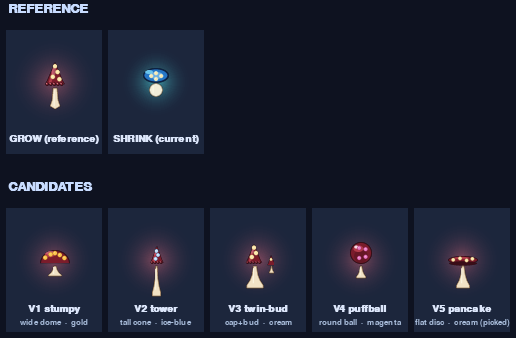
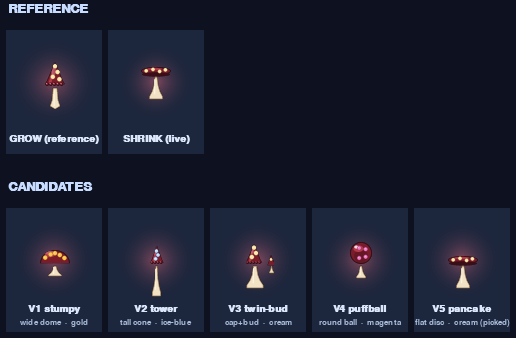
shrink: wire V5 pancake design into the live SHRINK pickup sprite
Replaces the standalone blue-toadstool design with the V5 pancake the
user picked from the second candidate set — same red velvet palette /
cream spots / magenta halo as GROW so the two read as a fungal family;
the silhouette is the only differentiator at glance.

game/entities.py changes:
  _draw_shrink_mushroom         halo (80,220,230) → _GROW_HALO_RGB
                                (180,90,110), radius 36 → 40
  _SHRINK_CAP_{W,H}             26×14 squat ellipse → 30×8 flat disc
  _SHRINK_STEM_{W,H}            14×14 → 14×22 (taller, room for flare)
  _SHRINK_VELVET_BODY           (40,120,200) blue → MUSH_CAP red
  _SHRINK_VELVET_HI             (110,200,240) blue → MUSH_CAP2 red
  _SHRINK_VELVET_OUTLINE        (15,35,70) navy → (60,15,25) wine
  _SHRINK_VELVET_SHEEN          dropped (V5 doesn't use the sheen blob)
  _SHRINK_STEM_BODY             dropped (now uses shared MUSH_STEM)
  _SHRINK_SPOT_HALO             (180,220,230) cyan → (195,165,110) cream
  _SHRINK_STEM_HI               (255,252,235) cooler → (255,250,230)
  _SHRINK_ORNAMENT_SLOTS        4 spots on the squat-ellipse layout →
                                4-spot GROW-style asymmetric scatter
                                across the wide flat disc
  _get_shrink_body_sprite       rewritten: flared flat-bottomed
                                pedestal stem polygon + flat disc cap
                                (outline + body + crescent highlight +
[…]

Changed region(s): [[0.2171, 0.3846, 0.4031, 0.4438], [0.2481, 0.1775, 0.3411, 0.2959]]

diff --git a/game/entities.py b/game/entities.py
@@ -1634,14 +1634,14 @@ class PowerUp:
     # ── SECRET LATE-GAME POWER-UP ICONS ─────────────────────────────────────
 
     def _draw_shrink_mushroom(self, surf):
-        """Sibling-to-GROW mushroom: short squat wide cap, deep blue velvet,
-        cream spots in the same canonical layout, cyan pulsing halo. Reads
-        as the same fungal family as GROW but unmistakably different."""
+        """Sibling-to-GROW mushroom in red velvet: wide flat parasol disc on
+        a flared flat-bottomed stem, cream-butter spots, magenta pulsing
+        halo. Reads as the same fungal family as GROW; the silhouette is
+        the only thing that distinguishes the two pickups at glance."""
         cx = int(self.x)
         cy = int(self.y + math.sin(self.pulse * 1.1) * 2)
-        # Cyan halo first (mirrors GROW's pulsing magenta halo style).
         _draw_grow_halo(surf, cx, cy, self.pulse,
-                        color_rgb=(80, 220, 230), radius=36, peak_y_off=0)
+                        color_rgb=_GROW_HALO_RGB, radius=40, peak_y_off=0)
         sprite = _get_shrink_body_sprite()
         surf.blit(sprite, sprite.get_rect(center=(cx, cy)))
 
@@ -1818,30 +1818,31 @@ class PowerUp:
         surf.blit(rotated, rotated.get_rect(center=(cx, cy)))
 
 
-# ── SHRINK power-up sprite (squat blue velvet toadstool — sibling to GROW) ───
-# Same canonical 4-spot ornament layout + velvet-sheen pattern as GROW so they
-# read as one fungal family, but flipped along three axes:
-#   - Shape: short squat wide cap (vs GROW's tall narrow Liberty-Cap cone)
-#   - Palette: cool deep-blue/teal velvet (vs GROW's warm red velvet)
-#   - Halo (drawn separately in _draw_shrink_mushroom): cyan vs magenta
-# Built at supersample then smoothscaled and cached, same as GROW.
+# ── SHRINK power-up sprite (red velvet pancake parasol — sibling to GROW) ───
+# Same red velvet palette + cream-butter spots + magenta halo as GROW so
+# the two pickups read as one fungal family. The silhouette is the only
+# differentiator at glance:
+#   - Cap: wide flat parasol disc (vs GROW's tall narrow Liberty-Cap cone)
+#   - Stem: flared flat-bottomed pedestal (vs GROW's bulbed pointed stem)
+# Built at supersample then smoothscaled and cached, same pipeline as GROW.
 _SHRINK_SS = 5
-_SHRINK_CAP_W, _SHRINK_CAP_H = 26, 14            # wider + shorter than GROW
-_SHRINK_STEM_W, _SHRINK_STEM_H = 14, 14
-_SHRINK_VELVET_OUTLINE = ( 15,  35,  70)
-_SHRINK_VELVET_BODY    = ( 40, 120, 200)
-_SHRINK_VELVET_HI      = (110, 200, 240)
-_SHRINK_VELVET_SHEEN   = (180, 230, 250, 130)
-_SHRINK_SPOT_HALO      = (180, 220, 230)
-_SHRINK_STEM_OUTLINE   = (140, 130, 110)
-_SHRINK_STEM_BODY      = (245, 240, 220)
-_SHRINK_STEM_HI        = (255, 252, 235)
+_SHRINK_CAP_W,  _SHRINK_CAP_H  = 30, 8
+_SHRINK_STEM_W, _SHRINK_STEM_H = 14, 22
+_SHRINK_VELVET_OUTLINE = ( 60,  15,  25)
+_SHRINK_VELVET_BODY    = MUSH_CAP
+_SHRINK_VELVET_HI      = MUSH_CAP2
+_SHRINK_SPOT_HALO      = (195, 165, 110)
+_SHRINK_STEM_OUTLINE   = (150, 120,  90)
+_SHRINK_STEM_HI        = (255, 250, 230)
 
+# 4 cream-butter spots in a GROW-style asymmetric scatter across the
+# flat disc — they don't form a uniform grid, mirroring the way GROW's
+# 4 canonical spots are off-axis on the cone.
 _SHRINK_ORNAMENT_SLOTS = (
-    (0.50, 0.30),
-    (0.32, 0.50),
-    (0.70, 0.50),
-    (0.50, 0.72),
+    (0.18, 0.48),
+    (0.40, 0.30),
+    (0.62, 0.55),
+    (0.82, 0.36),
 )
 
 _shrink_body_sprite: "pygame.Surface | None" = None
@@ -1853,56 +1854,66 @@ def _get_shrink_body_sprite() -> "pygame.Surface":
     SS = _SHRINK_SS
     CAP_W, CAP_H = _SHRINK_CAP_W, _SHRINK_CAP_H
     STEM_W, STEM_H = _SHRINK_STEM_W, _SHRINK_STEM_H
-    sprite_w = max(CAP_W, STEM_W) + 4
+    sprite_w = max(CAP_W, STEM_W) + 2
     sprite_h = CAP_H + STEM_H + 4
     big = pygame.Surface((sprite_w * SS, sprite_h * SS), pygame.SRCALPHA)
-    # Cap centered horizontally at sprite_w/2.
-    cap_cx = (sprite_w * SS) // 2
-    cap_cy = (CAP_H // 2 + 1) * SS
-    # Stem below the cap.
-    stem_cx = cap_cx
-    stem_top_y = (CAP_H + 1) * SS
-    # ── Stem (chubby bulbed ivory, narrower than GROW) ────────────────────
-    stem_rect = pygame.Rect(stem_cx - (STEM_W // 2) * SS, stem_top_y,
-                            STEM_W * SS, STEM_H * SS)
-    pygame.draw.ellipse(big, _SHRINK_STEM_BODY, stem_rect)
-    pygame.draw.ellipse(big, _SHRINK_STEM_OUTLINE, stem_rect, SS)
-    # Stem highlight (vertical streak)
-    hi_x = stem_cx - 3 * SS
+    cap_ox  = ((sprite_w - CAP_W)  // 2) * SS
+    cap_oy  = 0
+    stem_ox = ((sprite_w - STEM_W) // 2) * SS
+    stem_oy = (CAP_H + 2) * SS
+
+    # ── Stem: flared flat-bottomed pedestal ───────────────────────────────
+    # Widest at the base (y=1.0) with a shoulder at y=0.88 so the mushroom
+    # sits squarely instead of balancing on a tapered tip.
+    stem_pts = [
+        (int(0.42 * STEM_W * SS), int(0.00 * STEM_H * SS)),
+        (int(0.58 * STEM_W * SS), int(0.00 * STEM_H * SS)),
+        (int(0.66 * STEM_W * SS), int(0.40 * STEM_H * SS)),
+        (int(0.78 * STEM_W * SS), int(0.66 * STEM_H * SS)),
+        (int(0.96 * STEM_W * SS), int(0.88 * STEM_H * SS)),
+        (int(0.96 * STEM_W * SS), int(1.00 * STEM_H * SS)),
+        (int(0.04 * STEM_W * SS), int(1.00 * STEM_H * SS)),
+        (int(0.04 * STEM_W * SS), int(0.88 * STEM_H * SS)),
+        (int(0.22 * STEM_W * SS), int(0.66 * STEM_H * SS)),
+        (int(0.34 * STEM_W * SS), int(0.40 * STEM_H * SS)),
+    ]
+    stem_pts = [(p[0] + stem_ox, p[1] + stem_oy) for p in stem_pts]
+    pygame.draw.polygon(big, MUSH_STEM,            stem_pts)
+    pygame.draw.polygon(big, _SHRINK_STEM_OUTLINE, stem_pts, width=SS)
+    hi_x = stem_ox + int(0.40 * STEM_W * SS)
     pygame.draw.line(big, _SHRINK_STEM_HI,
-                     (hi_x, stem_top_y + 3 * SS),
-                     (hi_x, stem_top_y + (STEM_H - 4) * SS), SS)
-    # ── Cap: squat wide ellipse (short height, wide footprint) ───────────
-    cap_rect = pygame.Rect(cap_cx - (CAP_W // 2) * SS,
-                           cap_cy - (CAP_H // 2 + 1) * SS,
-                           CAP_W * SS, (CAP_H + 1) * SS)
-    pygame.draw.ellipse(big, _SHRINK_VELVET_OUTLINE, cap_rect)
-    inner = cap_rect.inflate(-3 * SS, -3 * SS)
-    pygame.draw.ellipse(big, _SHRINK_VELVET_BODY, inner)
-    # Highlight crescent (top-left of cap)
-    hi_rect = pygame.Rect(cap_cx - (CAP_W // 2 - 2) * SS,
-                          cap_cy - (CAP_H // 2 - 1) * SS,
-                          (CAP_W // 3) * SS, (CAP_H // 3) * SS)
-    pygame.draw.ellipse(big, _SHRINK_VELVET_HI, hi_rect)
-    # Velvet sheen alpha blob
-    sheen = pygame.Surface(big.get_size(), pygame.SRCALPHA)
-    pygame.draw.ellipse(sheen, _SHRINK_VELVET_SHEEN,
-                        pygame.Rect(cap_cx - (CAP_W // 4) * SS,
-                                    cap_cy - (CAP_H // 3) * SS,
-                                    (CAP_W // 2) * SS,
-                                    (CAP_H // 2) * SS))
-    cone_mask = pygame.Surface(big.get_size(), pygame.SRCALPHA)
-    pygame.draw.ellipse(cone_mask, (255, 255, 255, 255), inner)
-    sheen.blit(cone_mask, (0, 0), special_flags=pygame.BLEND_RGBA_MULT)
-    big.blit(sheen, (0, 0))
-    # Cream-butter spots (same canonical layout as GROW)
+                     (hi_x, stem_oy + int(0.10 * STEM_H * SS)),
+                     (hi_x, stem_oy + int(0.78 * STEM_H * SS)), SS)
+
+    # ── Cap: wide flat disc with a hint of pancake thickness ─────────────
+    outer = pygame.Rect(cap_ox, cap_oy, CAP_W * SS, CAP_H * SS)
+    inner = outer.inflate(-SS * 2, -SS * 2)
+    pygame.draw.ellipse(big, _SHRINK_VELVET_OUTLINE, outer)
+    pygame.draw.ellipse(big, _SHRINK_VELVET_BODY,    inner)
+    pygame.draw.ellipse(big, _SHRINK_VELVET_HI,
+                        pygame.Rect(cap_ox + int(CAP_W * SS * 0.20),
+                                    cap_oy + int(CAP_H * SS * 0.10),
+                                    int(CAP_W * SS * 0.50),
+                                    int(CAP_H * SS * 0.32)))
+    # Lower under-disc shadow hints at pancake thickness so the cap
+    # doesn't read as a single 2D ellipse.
+    pygame.draw.ellipse(big, _SHRINK_VELVET_OUTLINE,
+                        pygame.Rect(cap_ox + SS,
+                                    cap_oy + int(CAP_H * SS * 0.65),
+                                    (CAP_W - 2) * SS,
+                                    int(CAP_H * SS * 0.55)))
+
+    # ── Cream-butter spots (same render style as GROW: halo + body + glint).
     for fx_frac, fy_frac in _SHRINK_ORNAMENT_SLOTS:
-        fx = cap_cx - (CAP_W // 2) * SS + int(CAP_W * fx_frac * SS)
-        fy = cap_cy - (CAP_H // 2) * SS + int(CAP_H * fy_frac * SS)
-        pygame.draw.circle(big, _SHRINK_SPOT_HALO, (fx, fy), int(2.2 * SS))
-        pygame.draw.circle(big, MUSH_SPOT, (fx, fy), int(1.8 * SS))
-        pygame.draw.circle(big, (255, 255, 250),
+        fx = cap_ox + int(CAP_W * fx_frac * SS)
+        fy = cap_oy + int(CAP_H * fy_frac * SS)
+        r_body = 1.7
+        pygame.draw.circle(big, _SHRINK_SPOT_HALO, (fx, fy),
+                           int((r_body + 0.4) * SS))
+        pygame.draw.circle(big, MUSH_SPOT, (fx, fy), int(r_body * SS))
+        pygame.draw.circle(big, (255, 250, 220),
                            (fx - SS // 2, fy - SS // 2), max(1, SS // 2))
+
     _shrink_body_sprite = pygame.transform.smoothscale(big, (sprite_w, sprite_h))
     return _shrink_body_sprite
 

diff --git a/tools/render_shrink_in_world.py b/tools/render_shrink_in_world.py
@@ -1,0 +1,88 @@
+"""Render the NEW shrink mushroom pickup in a live gameplay scene so
+reviewers can see how the V5-pancake design reads next to pillars,
+ground, sky, and Pip — i.e. in the actual context where the player
+will see it.
+
+Run headless:
+
+    SDL_VIDEODRIVER=dummy SDL_AUDIODRIVER=dummy \
+        python tools/render_shrink_in_world.py
+
+Writes docs/shrink_icon_variants/in_world_preview.png.
+"""
+
+import os
+import sys
+
+os.environ.setdefault("SDL_VIDEODRIVER", "dummy")
+os.environ.setdefault("SDL_AUDIODRIVER", "dummy")
+
+import pygame
+
+_REPO = os.path.dirname(os.path.dirname(os.path.abspath(__file__)))
+if _REPO not in sys.path:
+    sys.path.insert(0, _REPO)
+
+pygame.init()
+pygame.display.set_mode((1, 1))
+
+from game import biome
+from game.config import W, H, GROUND_Y, BIRD_X
+from game.draw import draw_mountains, draw_ground
+from game.entities import Bird, Coin, Pipe, PowerUp
+from game.pillar_variants import _VARIANTS, VARIANT_COUNT, _paint_stone
+
+
+def _scene():
+    pal = biome.palette_for_phase(0.05)
+    surf = pygame.Surface((W, H)).convert()
+    top, mid, bot = pal["sky_top"], pal["sky_mid"], pal["sky_bot"]
+    for y in range(H):
+        if y < H * 0.45:
+            t = y / (H * 0.45)
+            c = tuple(int(top[i] + (mid[i] - top[i]) * t) for i in range(3))
+        else:
+            t = (y - H * 0.45) / (H * 0.55)
+            c = tuple(int(mid[i] + (bot[i] - mid[i]) * t) for i in range(3))
+        pygame.draw.line(surf, c, (0, y), (W, y))
+    draw_mountains(surf, scroll=120.0, ground_y=GROUND_Y, w=W)
+    draw_ground(surf, ground_y=GROUND_Y, w=W, h=H, scroll=120.0)
+
+    pipe_a = Pipe(x=200.0, gap_y=H * 0.48, gap_h=170.0)
+    pipe_b = Pipe(x=320.0, gap_y=H * 0.40, gap_h=160.0)
+    pipe_a.seed = 7 * VARIANT_COUNT + 2
+    pipe_b.seed = 11 * VARIANT_COUNT + 4
+    for p in (pipe_a, pipe_b):
+        top_sil, bot_sil, decorate = _VARIANTS[p.seed % VARIANT_COUNT]
+        _paint_stone(surf, p.top_rect, top_sil, pal, p.seed)
+        _paint_stone(surf, p.bot_rect, bot_sil, pal, p.seed + 1)
+        decorate(surf, p.top_rect, p.bot_rect, pal, p.seed)
+
+    Coin(x=260.0, y=H * 0.44).draw(surf)
+    Coin(x=290.0, y=H * 0.40).draw(surf)
+
+    # The pickup itself — drawn via the actual game render path so the
+    # screenshot matches gameplay frame-for-frame.
+    shrink = PowerUp(x=150.0, y=H * 0.42, kind="shrink")
+    shrink.pulse = 1.2
+    shrink.draw(surf)
+
+    # Bird at full size — the player hasn't picked it up yet.
+    bird = Bird()
+    bird.x, bird.y = BIRD_X, H * 0.52
+    bird.frame_t = 0.4
+    bird.draw(surf)
+    return surf
+
+
+def main():
+    out_dir = os.path.join(_REPO, "docs", "shrink_icon_variants")
+    os.makedirs(out_dir, exist_ok=True)
+    scene = _scene()
+    path = os.path.join(out_dir, "in_world_preview.png")
+    pygame.image.save(scene, path)
+    print(f"wrote {path}")
+
+
+if __name__ == "__main__":
+    main()

diff --git a/tools/render_shrink_icon_variants.py b/tools/render_shrink_icon_variants.py
@@ -537,8 +537,8 @@ def main():
                   halo_color=(180, 90, 110), halo_radius=46,
                   label="GROW (reference)"),
         _ref_cell(shrink_sprite, shrink_dx, shrink_dy,
-                  halo_color=(80, 220, 230), halo_radius=36,
-                  label="SHRINK (current)"),
+                  halo_color=HALO_RGB, halo_radius=40,
+                  label="SHRINK (live)"),
     )
 
     builders = (
